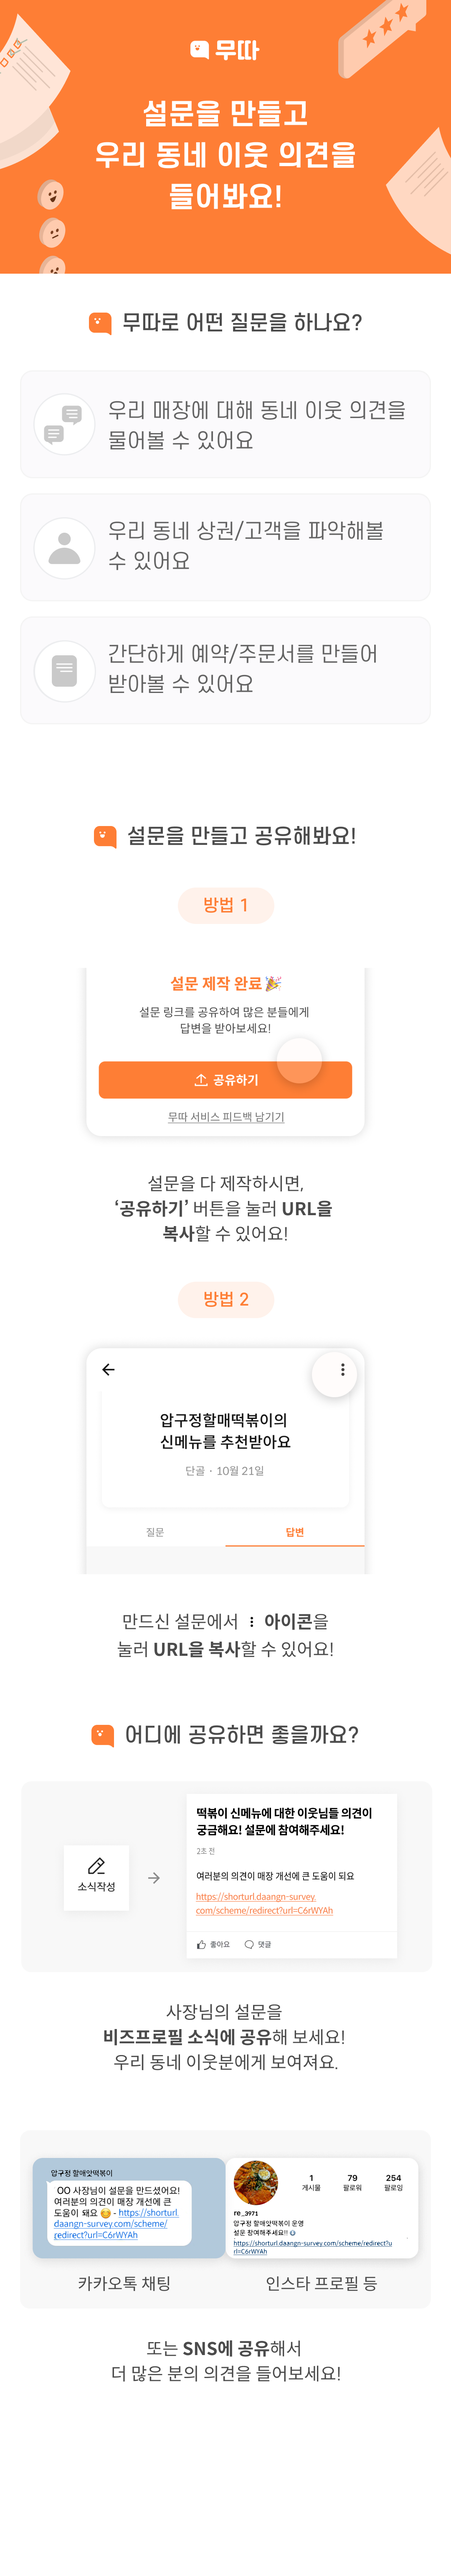
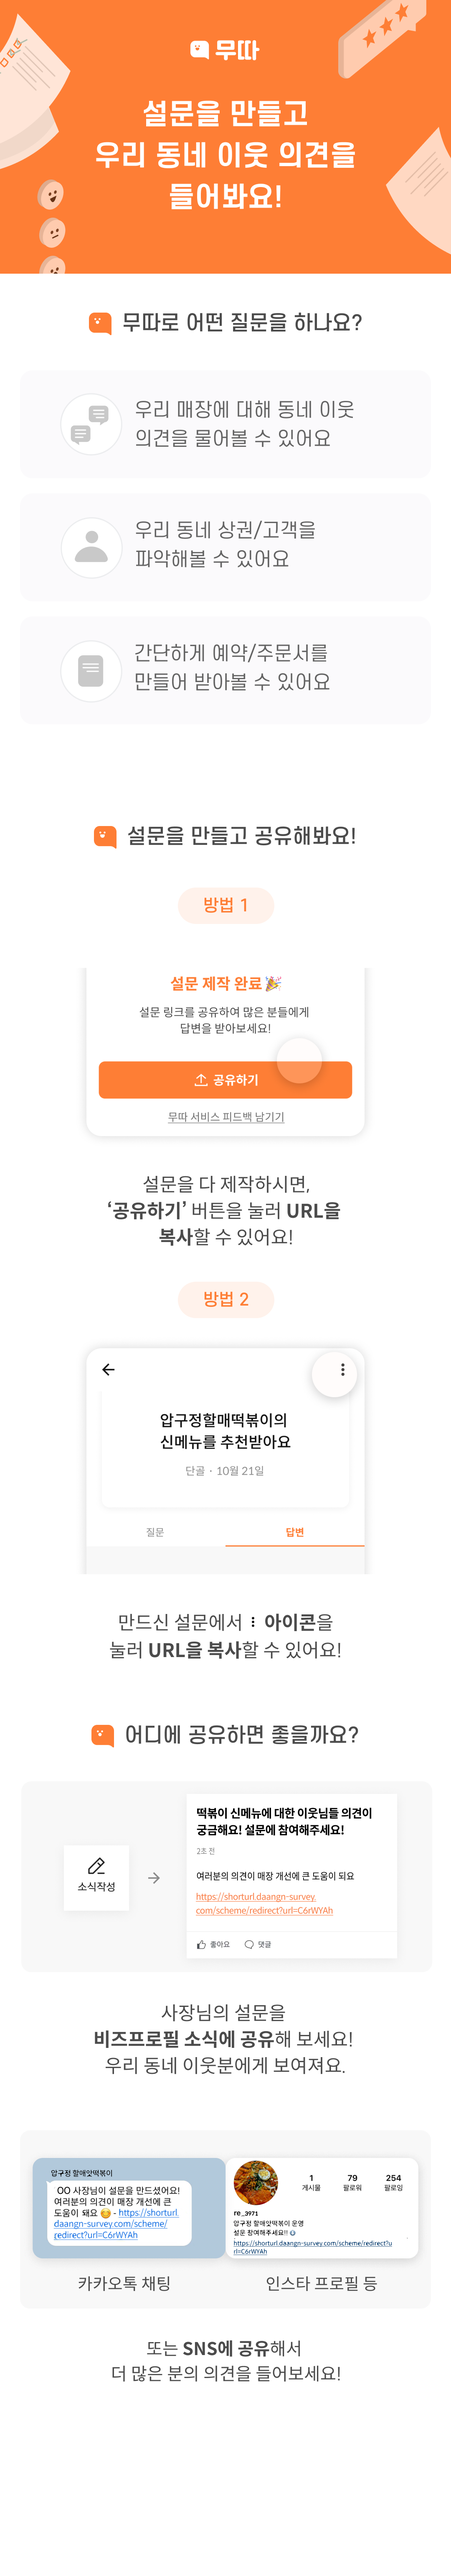
style : 가이드 이미지 변경 및 삭제 버튼 색 변경

diff --git a/src/page/SurveyAggregationPage.tsx b/src/page/SurveyAggregationPage.tsx
@@ -160,7 +160,9 @@ export default function SurveyAggregationPage(): JSX.Element {
         <UpDownModal setPopup={setPopup} rect isClose={isPopupClose}>
           <StyledMoreModal>
             <button onClick={handleShareClick}>설문 공유</button>
-            <button onClick={onDeleteClick}>설문 삭제</button>
+            <button className="delete" onClick={onDeleteClick}>
+              설문 삭제
+            </button>
           </StyledMoreModal>
         </UpDownModal>
       )}
@@ -231,6 +233,9 @@ const StyledMoreModal = styled.ul`
     :focus {
       background-color: #c9c9c9;
     }
+  }
+  .delete {
+    color: #ff0000;
   }
 `;
 
